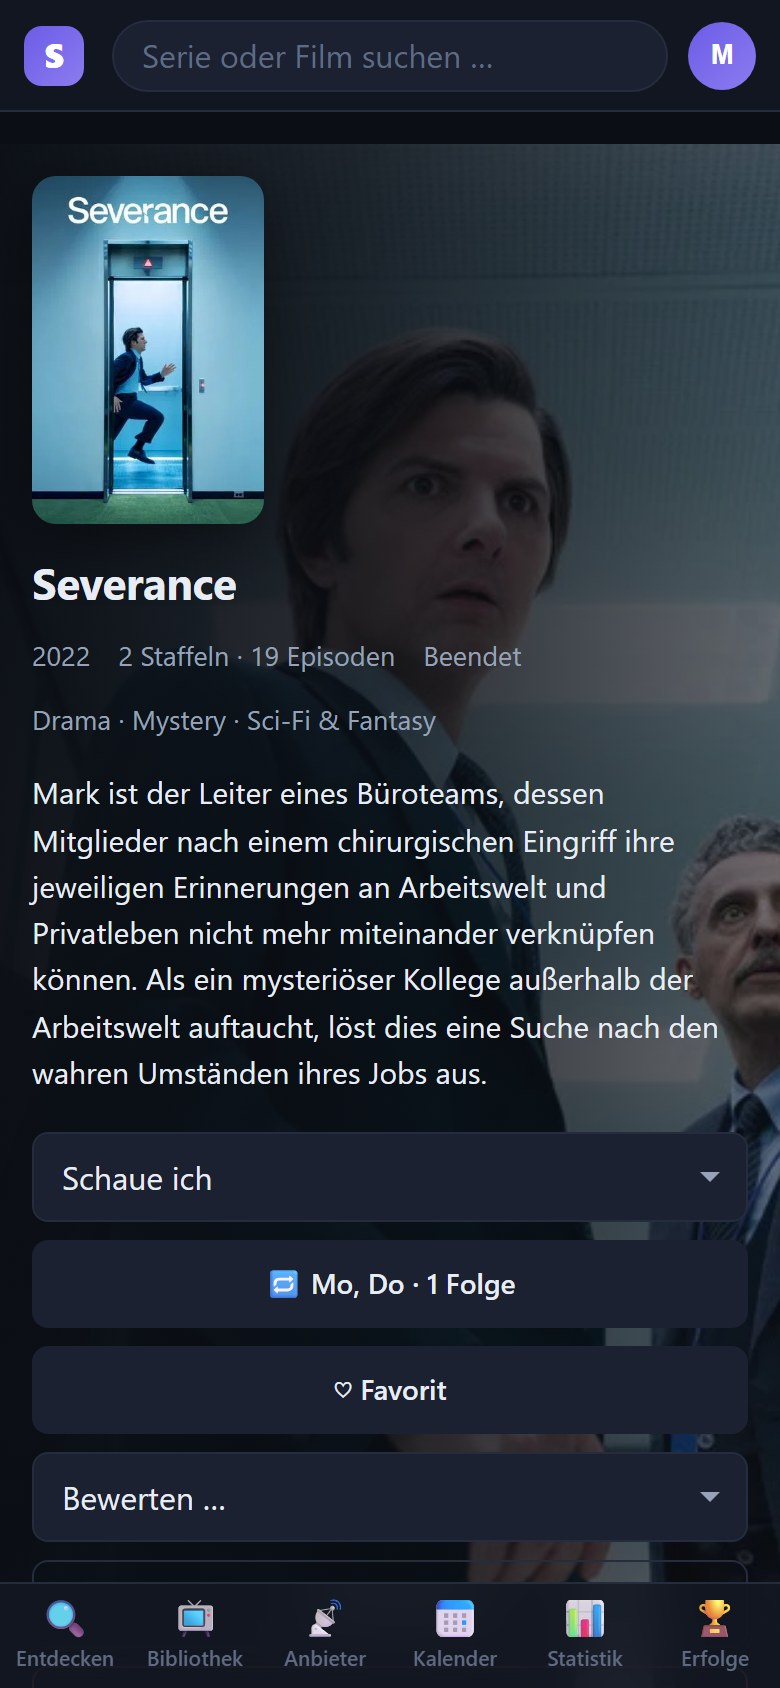
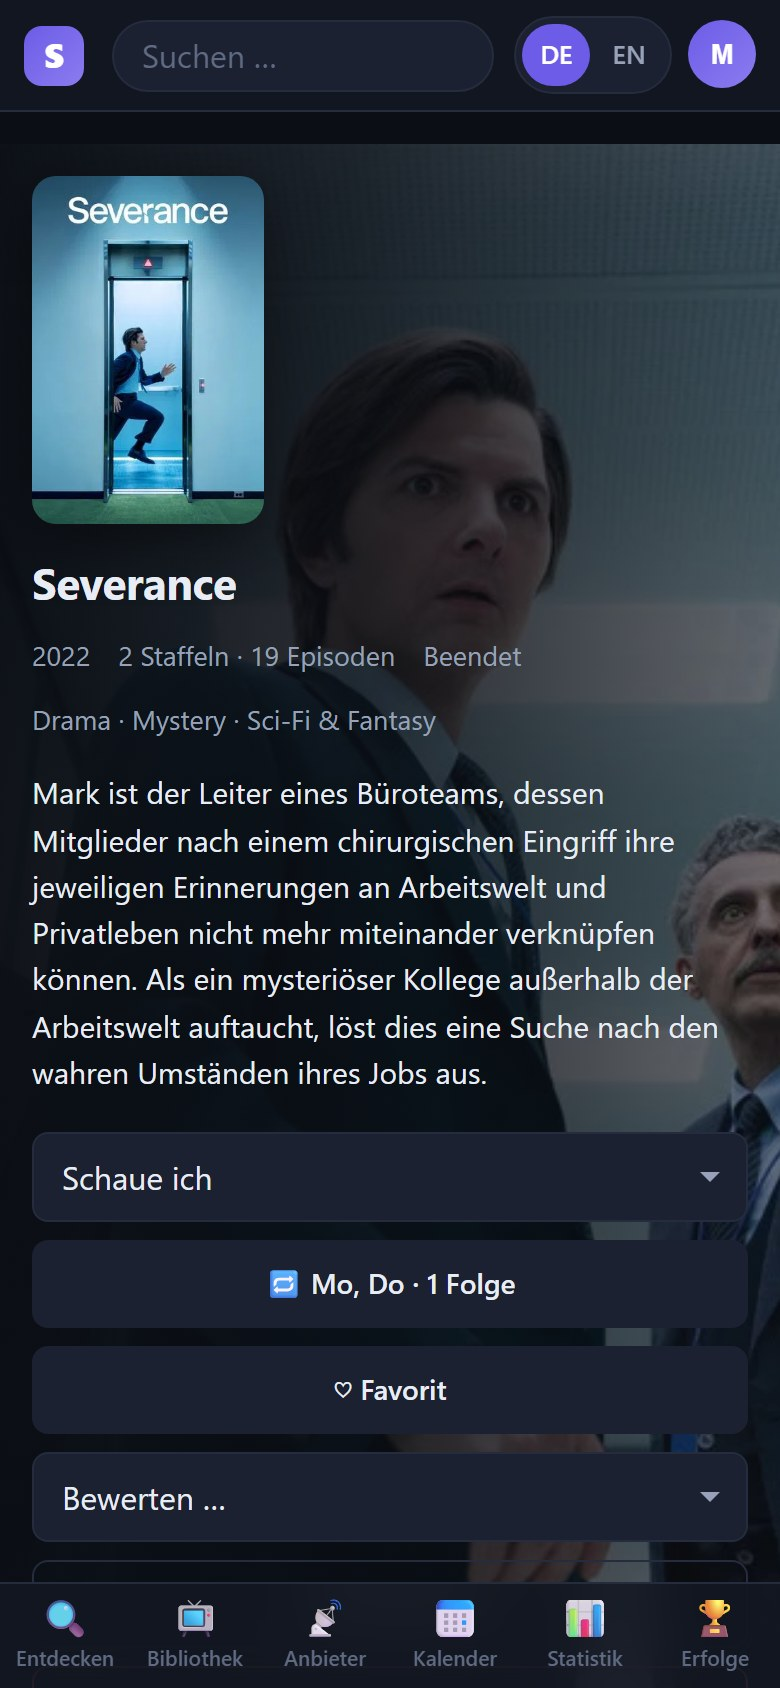
Sprachumschalter gut sichtbar in der Kopfzeile (1.3.7)
Nach der Anmeldung gab es den Wechsel zwischen Deutsch und Englisch nur als
Auswahlfeld tief in den Einstellungen - zu versteckt fuer eine Einstellung,
nach der man ausgerechnet dann sucht, wenn man die angezeigte Sprache
nicht versteht.

JETZT
In der Kopfzeile steht neben dem Kontokreis "DE | EN" mit einer
Weltkugel, auf jeder Seite und auch auf dem Telefon. Die aktive Sprache ist
in der Akzentfarbe hinterlegt. Ein Klick speichert die Wahl am Konto
(PUT /api/settings { uiLanguage }) und laedt die Seite in der neuen Sprache.
Im Test geprueft: nach dem Klick auf EN steht ui_language = 'en' in der
Datenbank, und die ganze Oberflaeche ist englisch.

Auf dem Anmeldebildschirm ist der Umschalter groesser, fetter und hat
einen Rahmen.

Beide Stellen benutzen denselben Baustein, languageSwitch() in ui.js. Die
Beschriftungen laufen am Uebersetzer vorbei: Deutsch, English, DE und EN
stehen immer in ihrer eigenen Sprache.

TELEFON
Die Suche teilt sich die Kopfzeile dort jetzt mit dem Umschalter. Damit ihr
Platzhalter nicht abgeschnitten wird, heisst er auf schmalen Bildschirmen
nur "Suchen ..." bzw. "Search ...".

Die README-Bilder und -Texte (beide Sprachen) zeigen und beschreiben den
neuen Umschalter.

620 Pruefungen, alle gruen.

diff --git a/public/js/ui.js b/public/js/ui.js
@@ -17,7 +17,7 @@
 
 import { img } from './api.js';
 // Übersetzung der sichtbaren Texte und Gebietsschema für Datumsangaben.
-import { tr, locale } from './i18n.js';
+import { tr, locale, UI_LANGUAGES, getLanguage, setLanguage } from './i18n.js';
 
 /**
  * Attribute, deren Wert sichtbarer Text ist und deshalb übersetzt wird.
@@ -104,6 +104,76 @@ export function render(container, ...nodes) {
 
 /** Der Hauptbereich, in den alle Ansichten rendern (siehe index.html). */
 export const viewRoot = () => document.getElementById('view');
+
+/**
+ * Der Umschalter Deutsch / English.
+ *
+ * Steht an zwei Stellen: in der Kopfzeile neben dem Kontokreis (angemeldet,
+ * eingesetzt von public/js/app.js -> updateChrome) und oben rechts auf den
+ * Anmelde-Bildschirmen (public/js/views/auth.js). Nach der Anmeldung gab es
+ * ihn früher nur als Auswahlfeld tief in den Einstellungen – zu versteckt für
+ * eine Einstellung, nach der man ausgerechnet dann sucht, wenn man die
+ * angezeigte Sprache nicht versteht.
+ *
+ * Die Beschriftungen laufen bewusst NICHT durch die Übersetzung: "Deutsch"
+ * und "English" (bzw. DE und EN) stehen immer in ihrer eigenen Sprache.
+ *
+ * @param {object} [options]
+ * @param {boolean} [options.short] Kürzel "DE"/"EN" mit Weltkugel – für die Kopfzeile
+ * @param {(code: string) => Promise<unknown>} [options.persist]
+ *        Speichert die Wahl zusätzlich am Konto (users.ui_language), damit sie
+ *        auf allen Geräten gilt. Ohne Anmeldung gibt es kein Konto dafür.
+ * @returns {HTMLElement}
+ */
+export function languageSwitch({ short = false, persist } = {}) {
+  const group = el(`div.lang-switch${short ? '.lang-switch-short' : ''}`, { role: 'group' });
+
+  // Zweisprachig und am Übersetzer vorbei gesetzt, damit beide Seiten den
+  // Knopf verstehen.
+  group.setAttribute('aria-label', 'Sprache / Language');
+  group.title = 'Sprache / Language';
+
+  if (short) {
+    // Die Weltkugel ist das Zeichen, das man auch ohne ein Wort Deutsch als
+    // "hier geht es um die Sprache" erkennt.
+    const globe = el('span.lang-globe', { 'aria-hidden': 'true' });
+    globe.textContent = '🌐';
+    group.append(globe);
+  }
+
+  for (const [code, name] of UI_LANGUAGES) {
+    const active = getLanguage() === code;
+
+    const button = el(`button.lang-option${active ? '.active' : ''}`, {
+      type: 'button',
+      lang: code,
+      onClick: async () => {
+        if (getLanguage() === code) return;
+        group.querySelectorAll('button').forEach((other) => (other.disabled = true));
+
+        try {
+          if (persist) await persist(code);
+        } catch (error) {
+          // Speichern am Konto fehlgeschlagen: trotzdem umschalten – dann
+          // gilt die Sprache eben nur in diesem Browser.
+          toast(error.message, 'error');
+        }
+
+        setLanguage(code);
+        // Neu laden statt neu zeichnen: So stehen auch Navigation, Fußzeile
+        // und alles bereits Gezeichnete in der neuen Sprache.
+        window.location.reload();
+      },
+    });
+
+    button.setAttribute('aria-pressed', String(active));
+    button.textContent = short ? code.toUpperCase() : name;
+    if (short) button.title = name;
+    group.append(button);
+  }
+
+  return group;
+}
 
 // --------------------------------------------------------------------------
 // Rückmeldungen

diff --git a/public/css/styles.css b/public/css/styles.css
@@ -333,6 +333,10 @@ img {
   flex-shrink: 0;
   /* Ganz nach rechts in der rechten Spalte. */
   justify-self: end;
+  /* Sprachumschalter und Kontokreis nebeneinander. */
+  display: flex;
+  align-items: center;
+  gap: 12px;
 }
 
 /* Mittlere Breiten: Die Navigation braucht rund 650 Pixel. Damit die Suche
@@ -1914,6 +1918,18 @@ footer p {
     gap: 10px;
   }
 
+  /* Der Sprachumschalter bleibt auch auf dem Telefon oben sichtbar – nur
+     etwas kompakter, ohne Weltkugel, damit die Suche Platz behält. */
+  .topbar-right {
+    gap: 8px;
+  }
+  .lang-switch-short .lang-globe {
+    display: none;
+  }
+  .lang-switch-short .lang-option {
+    padding: 5px 9px;
+  }
+
   #global-search {
     flex: 1;
     max-width: none;
@@ -2811,33 +2827,48 @@ input[type='date']::-webkit-calendar-picker-indicator:hover {
 }
 
 /* ---------------------------------------------------------------------------
-   Sprachumschalter auf den Anmelde-Bildschirmen (public/js/views/auth.js)
+   Sprachumschalter Deutsch / English (languageSwitch() in public/js/ui.js)
    ---------------------------------------------------------------------------
-   Klein und oben rechts in der Box: Wer die Sprache nicht versteht, soll ihn
-   trotzdem sofort finden – deshalb stehen die Namen in ihrer eigenen Sprache
-   ("Deutsch", "English") und nicht uebersetzt. */
+   Steht in der Kopfzeile neben dem Kontokreis und oben rechts auf den
+   Anmelde-Bildschirmen. Bewusst auffaellig – mit Rahmen, kraeftiger Schrift
+   und der aktiven Sprache in der Akzentfarbe: Gesucht wird er gerade dann,
+   wenn man die angezeigte Sprache nicht versteht. Die Namen stehen deshalb
+   auch immer in ihrer eigenen Sprache und werden nicht uebersetzt. */
 .auth-box {
   position: relative;
 }
-.lang-switch {
+.auth-box .lang-switch {
   position: absolute;
   top: 16px;
   right: 16px;
+}
+.lang-switch {
   display: flex;
+  align-items: center;
   gap: 2px;
-  padding: 2px;
+  padding: 3px;
   border-radius: 999px;
+  border: 1px solid var(--surface-3);
   background: var(--surface-2, rgba(255, 255, 255, 0.04));
+}
+.lang-globe {
+  font-size: 14px;
+  line-height: 1;
+  padding: 0 4px 0 6px;
 }
 .lang-option {
   border: 0;
   background: transparent;
   color: var(--text-dim);
   font: inherit;
-  font-size: 12px;
-  padding: 4px 10px;
+  font-size: 13px;
+  font-weight: 600;
+  padding: 5px 12px;
   border-radius: 999px;
   cursor: pointer;
+}
+.lang-option:disabled {
+  cursor: wait;
 }
 .lang-option:hover {
   color: var(--text);

diff --git a/public/js/views/auth.js b/public/js/views/auth.js
@@ -17,47 +17,15 @@
  */
 
 import { api } from '../api.js';
-import { el, render, toast, errorBox } from '../ui.js';
+// languageSwitch: der Umschalter Deutsch / English oben rechts in der Box.
+// Ohne Anmeldung merkt ihn sich nur der Browser; nach der Anmeldung gilt die
+// am Konto hinterlegte Sprache, sobald eine eingestellt ist.
+import { el, render, toast, errorBox, languageSwitch } from '../ui.js';
 import { state, refreshStatus } from '../app.js';
 import { startRouter, navigateTo } from '../router.js';
 import { isSupported, hasPlatformAuthenticator, usePasskey } from '../passkey.js';
 // Übersetzt Texte, die am Baustein el() vorbei direkt ins DOM geschrieben werden.
-import { tr, UI_LANGUAGES, getLanguage, setLanguage } from '../i18n.js';
-
-/**
- * Der Sprachumschalter oben rechts auf allen Anmelde-Bildschirmen.
- *
- * Hier gibt es noch kein Konto, an dem die Sprache hängen könnte – sie wird
- * im Browser gemerkt (public/js/i18n.js -> setLanguage) und nach der
- * Anmeldung vom Konto übernommen, sobald dort eine eingestellt ist.
- *
- * Die Sprachnamen stehen in ihrer eigenen Sprache und laufen deshalb NICHT
- * durch die Übersetzung: Wer kein Deutsch kann, sucht nach "English", nicht
- * nach "Englisch".
- *
- * @returns {HTMLElement}
- */
-function languageSwitch() {
-  return el(
-    'div.lang-switch',
-    { 'aria-label': 'Sprache' },
-    UI_LANGUAGES.map(([code, name]) => {
-      const button = el(`button.lang-option${getLanguage() === code ? '.active' : ''}`, {
-        type: 'button',
-        lang: code,
-        onClick: () => {
-          if (getLanguage() === code) return;
-          setLanguage(code);
-          // Neu laden statt neu zeichnen: So sind auch die festen Texte aus
-          // index.html und alles bereits Gezeichnete in der neuen Sprache.
-          window.location.reload();
-        },
-      });
-      button.textContent = name; // am Übersetzer vorbei, siehe oben
-      return button;
-    }),
-  );
-}
+import { tr } from '../i18n.js';
 
 /**
  * Die Regionen, die im Auswahlfeld angeboten werden.

diff --git a/public/js/app.js b/public/js/app.js
@@ -20,7 +20,7 @@
  */
 
 import { api } from './api.js';
-import { render, viewRoot, loading, toast, banner, el } from './ui.js';
+import { render, viewRoot, loading, toast, banner, el, languageSwitch } from './ui.js';
 import { route, startRouter, navigateTo, resolve } from './router.js';
 // Farbschema: Das im Browser gemerkte wendet bereits index.html an, hier
 // kommt das am Konto hinterlegte hinterher.
@@ -72,6 +72,23 @@ export function updateChrome() {
   mobileNav.hidden = !state.user;
 
   if (!state.user) return;
+
+  // Der Umschalter Deutsch / English neben dem Kontokreis – einmal einsetzen.
+  // Die Wahl landet am Konto (PUT /api/settings { uiLanguage }, Migration 14)
+  // und gilt damit auch auf den anderen Geräten.
+  const langSlot = document.getElementById('lang-switch-slot');
+  if (langSlot && !langSlot.hasChildNodes()) {
+    langSlot.append(
+      languageSwitch({ short: true, persist: (code) => api.settings.update({ uiLanguage: code }) }),
+    );
+  }
+
+  // Auf dem Telefon teilt sich die Suche die Kopfzeile mit Sprachumschalter
+  // und Kontokreis. Der volle Platzhalter würde dort abgeschnitten – also
+  // die kurze Fassung.
+  if (window.matchMedia('(max-width: 720px)').matches) {
+    document.getElementById('global-search-input').placeholder = tr('Suchen …');
+  }
 
   const name = state.user.display_name || state.user.username;
 

diff --git a/public/js/i18n/en/basis.js b/public/js/i18n/en/basis.js
@@ -33,6 +33,8 @@ export default {
   // Kurz gehalten: Die englische Navigation ist breiter, und bei 1360 Pixeln
   // bleibt der Suche neben der mittigen Navigation nur wenig Platz.
   'Serie oder Film suchen …': 'Search shows & films …',
+  // Kurzfassung für die Kopfzeile auf dem Telefon (public/js/app.js).
+  'Suchen …': 'Search …',
   'Streamo startet …': 'Streamo is starting …',
   '· Daten von': '· Data from',
   '· Streaming-Verfügbarkeit von': '· Streaming availability from',

diff --git a/public/index.html b/public/index.html
@@ -148,6 +148,10 @@
       -->
 
       <div class="topbar-right">
+        <!-- Der Sprachumschalter (DE | EN). Befüllt von public/js/app.js ->
+             updateChrome, gebaut von languageSwitch() in public/js/ui.js. -->
+        <div id="lang-switch-slot"></div>
+
         <button id="user-menu-button" class="icon-button" aria-label="Konto">
           <span id="user-initial">?</span>
         </button>

diff --git a/src/config.js b/src/config.js
@@ -274,7 +274,7 @@ export const config = Object.freeze({
 
   // --- Metadaten ----------------------------------------------------------
   /** Version, wird im UI-Footer und unter /api/health angezeigt */
-  version: '1.3.6',
+  version: '1.3.7',
 });
 
 export default config;

diff --git a/README.md b/README.md
@@ -204,7 +204,7 @@ Optional. Jede Person hat eigene Abos, eigene Bibliothek, eigenen Fortschritt un
 
 ### Deutsch oder Englisch
 
-Jede Person stellt unter *Einstellungen → Konto* die Sprache der Oberfläche ein – Menüs, Knöpfe, Meldungen und das Kalender-Abo folgen ihr, auf allen Geräten. Auf dem Anmeldebildschirm sitzt oben rechts ein Umschalter. Davon getrennt bleibt die *Sprache der Inhalte*: Englische Oberfläche mit deutschen Serientiteln und Beschreibungen geht genauso.
+Jede Person stellt unter *Einstellungen → Konto* die Sprache der Oberfläche ein – Menüs, Knöpfe, Meldungen und das Kalender-Abo folgen ihr, auf allen Geräten. Umgeschaltet wird mit einem Klick: In der Kopfzeile steht neben dem Kontokreis **🌐 DE | EN**, auf jeder Seite und auch auf dem Handy – ebenso oben rechts auf dem Anmeldebildschirm. Davon getrennt bleibt die *Sprache der Inhalte*: Englische Oberfläche mit deutschen Serientiteln und Beschreibungen geht genauso.
 
 Die Windows-App richtet ihr Tray-Menü und ihre Meldungen nach der Sprache des Systems.
 

diff --git a/README.en.md b/README.en.md
@@ -207,7 +207,7 @@ Optional. Everyone has their own subscriptions, library, progress and region. Wh
 
 ### German or English
 
-Each person chooses the interface language under *Settings → Account* – menus, buttons, messages and the calendar subscription follow it on every device. The sign-in screen has a switch in the top right corner. The *content language* is separate: an English interface with German show titles and descriptions is perfectly possible.
+Each person chooses the interface language under *Settings → Account* – menus, buttons, messages and the calendar subscription follow it on every device. Switching takes one click: the header shows **🌐 DE | EN** next to your account circle, on every page and on phones too – and the sign-in screen has the same switch in its top right corner. The *content language* is separate: an English interface with German show titles and descriptions is perfectly possible.
 
 ### Your colour scheme
 
